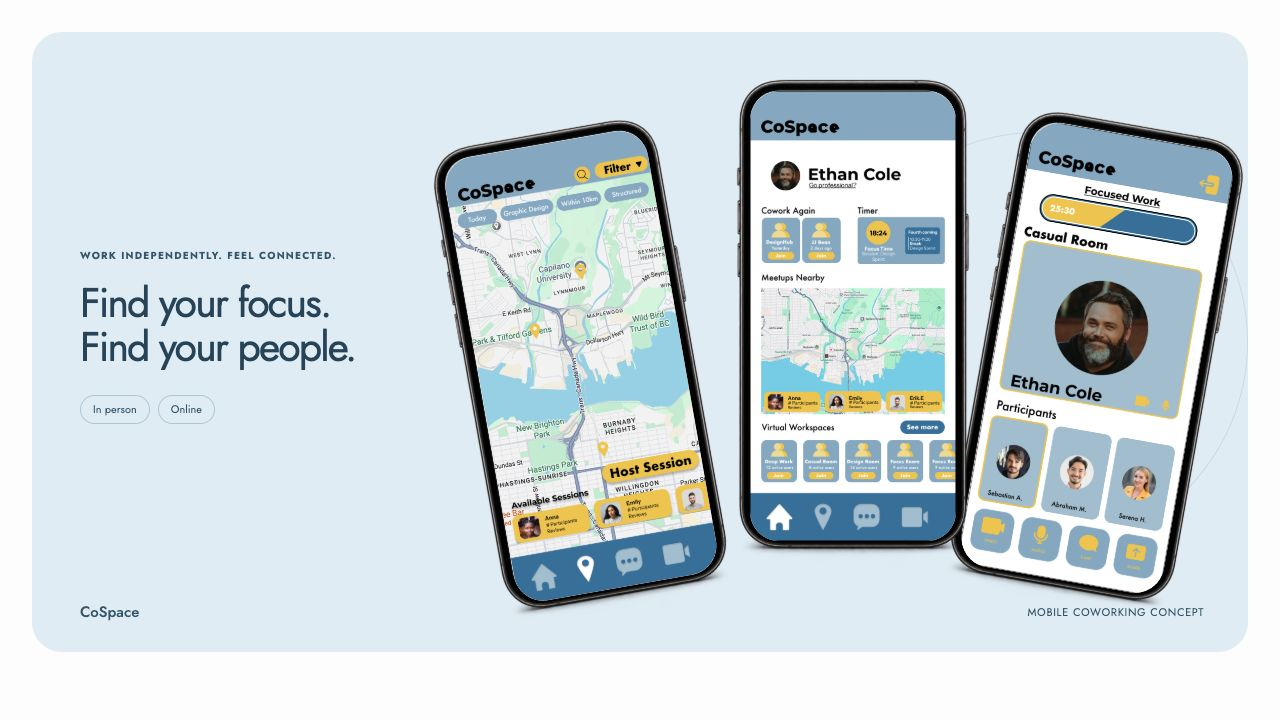
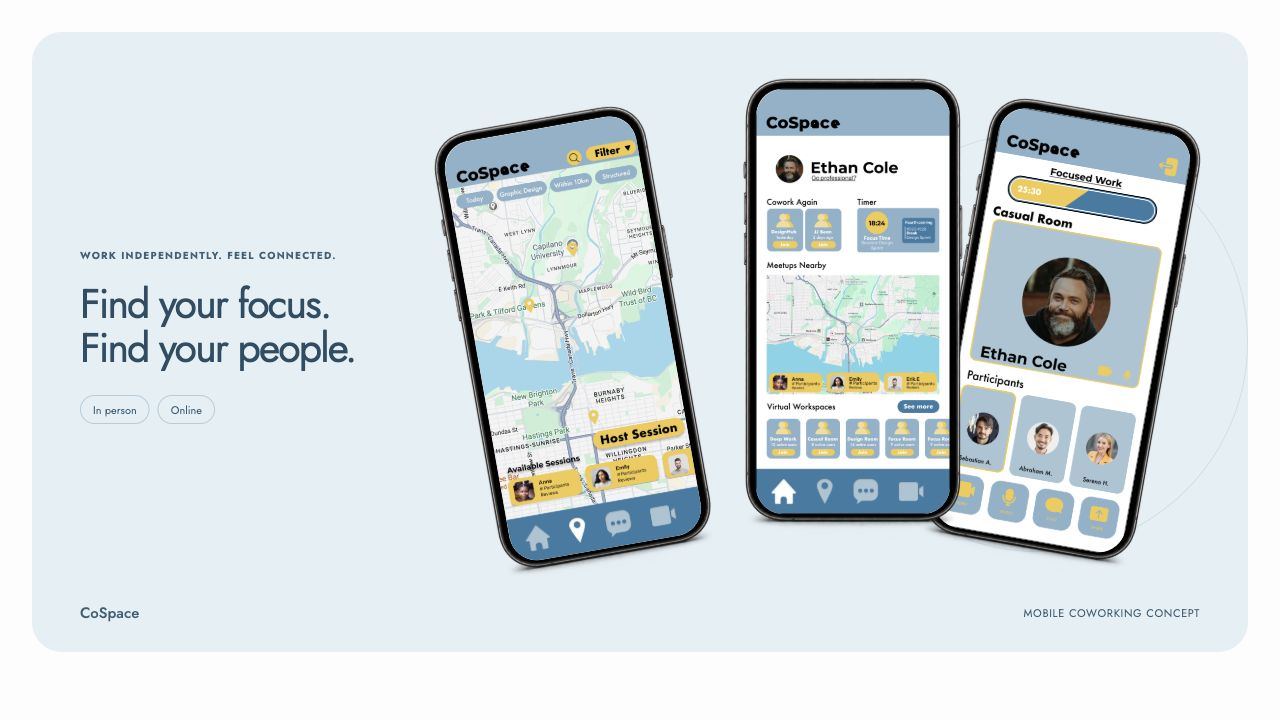
Balance CoSpace hero spacing and refresh mockup export

diff --git a/previews/cospace/cospace.css b/previews/cospace/cospace.css
@@ -33,9 +33,9 @@ html:has(.cospace-page) { scroll-behavior:auto; }
 .cs-meta dl>div+div { margin-top:14px; padding-top:14px; border-top:1px solid #dfe3df; }
 .cs-meta dt { font-size:11px; font-weight:650; text-transform:uppercase; letter-spacing:.1em; color:var(--cs-muted); margin-bottom:5px; }
 .cs-meta dd { font-size:14px; line-height:1.5; }
-.cs-hero { position:relative; display:grid; grid-template-columns:35% 65%; min-height:620px; border-radius:30px; background:#e4eff5; overflow:hidden; isolation:isolate; }
+.cs-hero { --cs-hero-inset:48px; --cs-hero-phone-size:240px; position:relative; display:grid; grid-template-columns:35% 65%; min-height:620px; border-radius:30px; background:#e4eff5; overflow:hidden; isolation:isolate; }
 .cs-hero::before { content:""; position:absolute; width:420px; height:420px; border:1px solid rgba(58,124,165,.14); border-radius:50%; right:0; top:100px; z-index:-1; }
-.cs-hero-copy { padding:78px 0 90px 48px; align-self:center; z-index:3; }
+.cs-hero-copy { padding:78px 0 90px var(--cs-hero-inset); align-self:center; z-index:3; }
 .cs-hero-copy .cs-eyebrow { font-size:10px; letter-spacing:.12em; color:#3c6176; }
 .cs-display { margin-top:18px!important; font-size:clamp(28px,3.2vw,45px); letter-spacing:-.045em; line-height:1.09; color:#294d63; }
 .cs-hero-tags { display:flex; gap:8px; margin-top:25px; }
@@ -45,11 +45,11 @@ html:has(.cospace-page) { scroll-behavior:auto; }
 .cs-hardware { position:absolute; inset:0; width:100%; height:100%!important; pointer-events:none; }
 .cs-screen { position:absolute; left:9.65%; top:6.27%; width:80.8%; height:88.53%!important; object-fit:fill; border-radius:14.2% / 6.6%; background:white; pointer-events:none; }
 .cs-screen--long { object-fit:contain; }
-.cs-hero-phone { position:absolute; width:254px; }
-.cs-hero-phone--left { left:-5px; top:77px; transform:rotate(-10deg); z-index:1; }
-.cs-hero-phone--right { right:24px; top:69px; transform:rotate(10deg); z-index:1; }
-.cs-hero-phone--centre { left:calc(50% - 127px); top:27px; z-index:2; }
-.cs-hero-caption { position:absolute; left:48px; right:44px; bottom:28px; display:flex; align-items:center; justify-content:space-between; color:#3a6075; font-size:15px; font-weight:500; }
+.cs-hero-phone { position:absolute; width:var(--cs-hero-phone-size); }
+.cs-hero-phone--left { left:-5px; top:64px; transform:rotate(-10deg); z-index:1; }
+.cs-hero-phone--right { right:calc(var(--cs-hero-inset) + var(--cs-hero-phone-size) * .0725); top:56px; transform:rotate(10deg); z-index:1; }
+.cs-hero-phone--centre { left:calc(50% - var(--cs-hero-phone-size) / 2); top:27px; z-index:2; }
+.cs-hero-caption { position:absolute; left:var(--cs-hero-inset); right:var(--cs-hero-inset); bottom:28px; display:flex; align-items:center; justify-content:space-between; color:#3a6075; font-size:15px; font-weight:500; }
 .cs-hero-caption span { font-size:11px; font-weight:400; letter-spacing:.06em; text-transform:uppercase; }
 .cs-chapters { display:flex; flex-wrap:wrap; gap:28px; padding:23px 0; font-size:13px; color:var(--cs-muted); border-bottom:1px solid #dfe4e0; }
 .cs-chapters a { padding:3px 0; }
@@ -157,15 +157,13 @@ html:has(.cospace-page) { scroll-behavior:auto; }
 @media (min-width:1450px) { .cs-intro { padding-top:68px; } }
 @media (max-width:1100px) {
   .cs-intro { gap:40px; grid-template-columns:minmax(0,1fr) 260px; }
-  .cs-hero { grid-template-columns:30% 70%; min-height:555px; }
+  .cs-hero { --cs-hero-inset:30px; --cs-hero-phone-size:210px; grid-template-columns:30% 70%; min-height:555px; }
   .cs-hero-copy { padding-left:30px; }
   .cs-hero-copy .cs-eyebrow { max-width:20ch; }
   .cs-hero-phones { height:555px; }
-  .cs-hero-phone { width:220px; }
-  .cs-hero-phone--centre { left:calc(50% - 110px); top:37px; }
+  .cs-hero-phone--centre { top:32px; }
   .cs-hero-phone--left { left:0; }
-  .cs-hero-phone--right { right:0; }
-  .cs-hero-caption { left:30px; right:30px; }
+  .cs-hero-phone--right { right:calc(var(--cs-hero-inset) + var(--cs-hero-phone-size) * .0725); }
   .cs-section { grid-template-columns:155px minmax(0,1fr); gap:30px; }
   .cs-walkthrough { gap:30px; padding-inline:35px; }
   .cs-gallery-heading { align-items:start; }
@@ -180,18 +178,17 @@ html:has(.cospace-page) { scroll-behavior:auto; }
   .cs-meta dl { display:grid; grid-template-columns:1fr 1fr; column-gap:30px; row-gap:17px; }
   .cs-meta dl>div+div { margin:0; padding:0; border:0; }
   .cs-meta dd { font-size:13px; }
-  .cs-hero { grid-template-columns:1fr; min-height:auto; }
+  .cs-hero { --cs-hero-phone-size:220px; grid-template-columns:1fr; min-height:auto; }
   .cs-hero-copy { padding:30px 30px 0; }
   .cs-hero-copy .cs-eyebrow { max-width:none; }
   .cs-display { font-size:36px; margin-top:12px!important; }
   .cs-display br { display:none; }
   .cs-hero-tags { margin-top:16px; }
   .cs-hero-phones { width:min(100%,620px); height:505px; margin:0 auto 42px; }
-  .cs-hero-phone { width:220px; }
   .cs-hero-phone--centre { top:20px; }
   .cs-hero-phone--left,.cs-hero-phone--right { top:52px; }
-  .cs-hero-phone--left { left:8px; }
-  .cs-hero-phone--right { right:8px; }
+  .cs-hero-phone--left { left:calc(var(--cs-hero-inset) + var(--cs-hero-phone-size) * .0725); }
+  .cs-hero-phone--right { right:calc(var(--cs-hero-inset) + var(--cs-hero-phone-size) * .0725); }
   .cs-hero-caption { bottom:22px; font-size:13px; }
   .cs-chapters { gap:14px 22px; padding-block:19px; font-size:12px; }
   .cs-section { grid-template-columns:1fr; gap:20px; padding:55px 0; }
@@ -232,18 +229,17 @@ html:has(.cospace-page) { scroll-behavior:auto; }
   .cs-meta dl { column-gap:22px; }
   .cs-meta dt { font-size:9px; }
   .cs-meta dd { font-size:12px; }
-  .cs-hero { border-radius:22px; }
+  .cs-hero { --cs-hero-inset:24px; --cs-hero-phone-size:172px; border-radius:22px; }
   .cs-hero-copy { padding:28px 24px 0; }
   .cs-hero-copy .cs-eyebrow { font-size:9px; }
   .cs-display { font-size:31px; }
   .cs-display br { display:block; }
   .cs-hero-tags { margin-top:14px; }
   .cs-hero-phones { height:385px; margin-bottom:45px; }
-  .cs-hero-phone { width:172px; }
-  .cs-hero-phone--centre { left:calc(50% - 86px); top:24px; }
-  .cs-hero-phone--left { width:135px; left:20px; top:65px; transform:rotate(-9deg); }
-  .cs-hero-phone--right { width:135px; right:20px; top:65px; transform:rotate(9deg); }
-  .cs-hero-caption { left:24px; right:24px; font-size:12px; }
+  .cs-hero-phone--centre { top:24px; }
+  .cs-hero-phone--left { width:135px; left:calc(var(--cs-hero-inset) + 8px); top:65px; transform:rotate(-9deg); }
+  .cs-hero-phone--right { width:135px; right:calc(var(--cs-hero-inset) + 8px); top:65px; transform:rotate(9deg); }
+  .cs-hero-caption { font-size:12px; }
   .cs-hero-caption span { font-size:8px; }
   .cs-chapters { gap:8px 16px; font-size:11px; }
   .cs-section { padding:44px 0; gap:16px; }

diff --git a/previews/cospace/evidence/qa.md b/previews/cospace/evidence/qa.md
@@ -2,6 +2,13 @@
 
 Checked October 29, 2026.
 
+## October 30 spacing revision
+
+- Matched the visible right handset edge to the 48px left copy inset at desktop width. The right-hand positioning includes the extra width created by its rotation and the transparent margins of the generated hardware image.
+- Reduced the three hero phones slightly and moved the outer phones upward, leaving clear space above the lower caption. The right caption now shares the same inset as the left copy.
+- Verified the revised composition at 1280px, 1024px, and 390px widths, with no horizontal overflow. Shared responsive insets are 48px, 30px, and 24px.
+- Re-exported the hero mockup and saved desktop/mobile screenshots for the revision.
+
 ## Source and visual checks
 
 - Current portfolio homepage and three project pages were opened. SharedStandard was also inspected visually in the browser.
